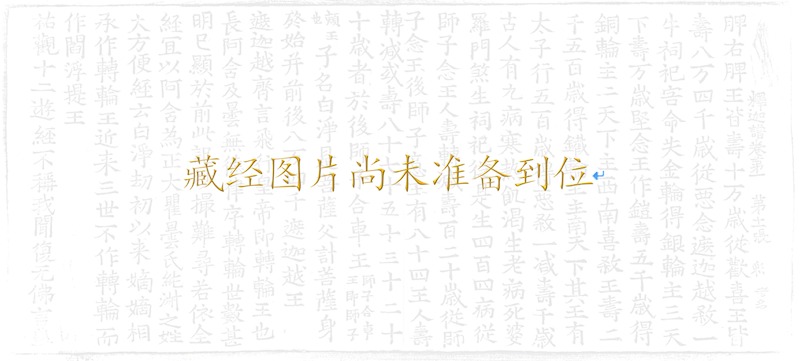
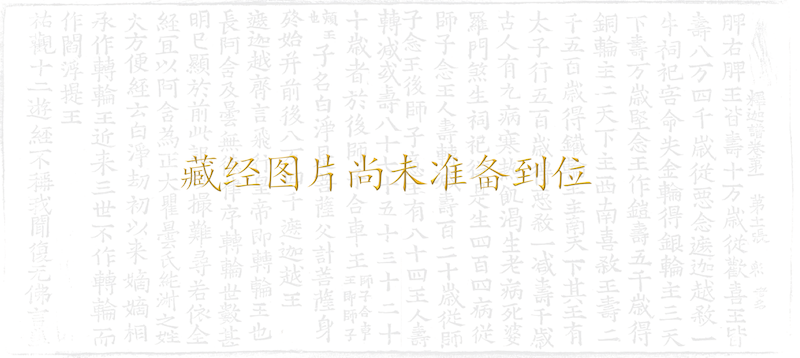
自动显示缺图页面的占位图

Changed region(s): [[0.2188, 0.4302, 0.75, 0.5531]]

diff --git a/static/js/tripitaka.js b/static/js/tripitaka.js
@@ -50,7 +50,7 @@ $('.m-header .zone-control .zone-right').click(function () {
 
 // 跳转第一页
 $('.m-pager .btn-page.first').click(function () {
-  window.location = '/' + $('.m-header #parent-id').text() + '_' + $(this).attr("title");
+  window.location = '/t/' + $('.m-header #parent-id').text() + '_' + $(this).attr("title");
 });
 
 // 跳转某一页
@@ -68,7 +68,7 @@ $('.m-pager .btn-page.to').on("keydown", function (event) {
 
 function jump(page) {
   var parent_id = $('.m-header #parent-id').text();
-  window.location = '/' + parent_id.replace(/_/g, '/') + '_' + page;
+  window.location = '/t/' + parent_id.replace(/_/g, '/') + '_' + page;
 }
 
 // 缩小图片
@@ -99,7 +99,7 @@ $('.main-left').on('click', '.has-sub', function () {
 
 $('.main-left').on('click', '.leaf', function () {
   var m = $(this).attr('id').match(/([a-zA-Z]{1,2})0*([_0-9]+)/);
-  var url = '/' + m[1] + '/' + m[2].replace(/^_/, '');
+  var url = '/t/' + m[1] + '/' + m[2].replace(/^_/, '');
   window.location = url;
 });
 
@@ -185,5 +185,5 @@ $('#my-sutra-table').DataTable({
 $('#my-sutra-table').on("click", '.page-code', function (event) {
   $('#sutraNavModal').modal('hide');
   var tripitaka = $('.m-header #parent-id').text().split('_')[0];
-  window.location = '/' + tripitaka + '/' + $(this).attr('title');
+  window.location = '/t/' + tripitaka + '/' + $(this).attr('title');
 });

diff --git a/views/tripitaka.html b/views/tripitaka.html
@@ -158,11 +158,7 @@
           <!-- 左侧图片区域 -->
           <div class="content-left">
             <div id="page-picture" class="page-picture">
-              {% if meta.get('img_available') == '否' %}
-              <img src="{{ static_url('imgs/tripitaka_img_not_existed.png') }}" style="width: 400px"/>
-              {% else %}
-              <img src="{{img_url}}" style="width: 100%"/>
-              {% end %}
+              <img src="{{img_url}}" style="width: 100%" onerror="javascript:this.style.width='400px';this.src='{{static_url('imgs/tripitaka_img_not_existed.png')}}';"/>
             </div>
           </div>
           <!-- 右侧文字区域 -->

diff --git a/meta/import_meta.py b/meta/import_meta.py
@@ -31,7 +31,7 @@ def import_tripitaka():
         heads = rows[0]
         added = 0
         for r, row in enumerate(rows[1:]):
-            if r % 50 == 0:
+            if r % 100 == 0:
                 sys.stdout.write('.')
                 sys.stdout.flush()
             data = {heads[i]: item for i, item in enumerate(row)}
@@ -61,7 +61,7 @@ def import_volume(tripitaka, meta_csv):
         heads = rows[0]
         added = 0
         for r, row in enumerate(rows[1:]):
-            if r % 50 == 0:
+            if r % 100 == 0:
                 sys.stdout.write('.')
                 sys.stdout.flush()
             data = {heads[i]: item for i, item in enumerate(row)}
@@ -96,7 +96,7 @@ def import_sutra(tripitaka, meta_csv):
         heads = rows[0]
         added = 0
         for r, row in enumerate(rows[1:]):
-            if r % 50 == 0:
+            if r % 100 == 0:
                 sys.stdout.write('.')
                 sys.stdout.flush()
             data = {heads[i]: item for i, item in enumerate(row)}
@@ -118,7 +118,7 @@ def import_reel(tripitaka, meta_csv):
         heads = rows[0]
         added = 0
         for r, row in enumerate(rows[1:]):
-            if r % 50 == 0:
+            if r % 100 == 0:
                 sys.stdout.write('.')
                 sys.stdout.flush()
             data = {heads[i]: item for i, item in enumerate(row)}
